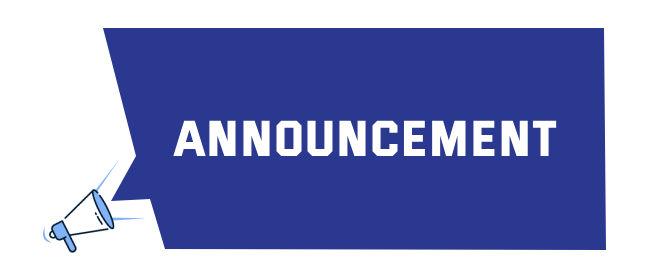
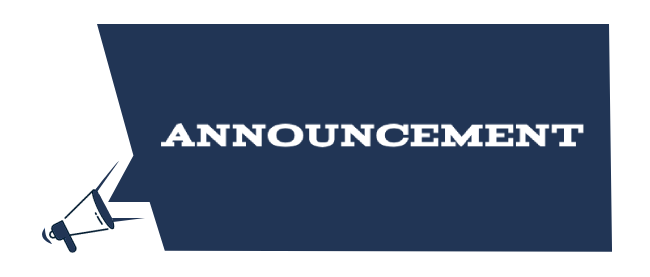
ANNOUNCEMENTBANNER

diff --git a/resources/css/styles/landing/LandingHeader.css b/resources/css/styles/landing/LandingHeader.css
@@ -71,7 +71,7 @@
 }
 
 .login-button {
-    background-color: #4e91fd;
+    background-color: #213555;
     color: white;
     border: none;
     padding: 0.5rem 1rem;
